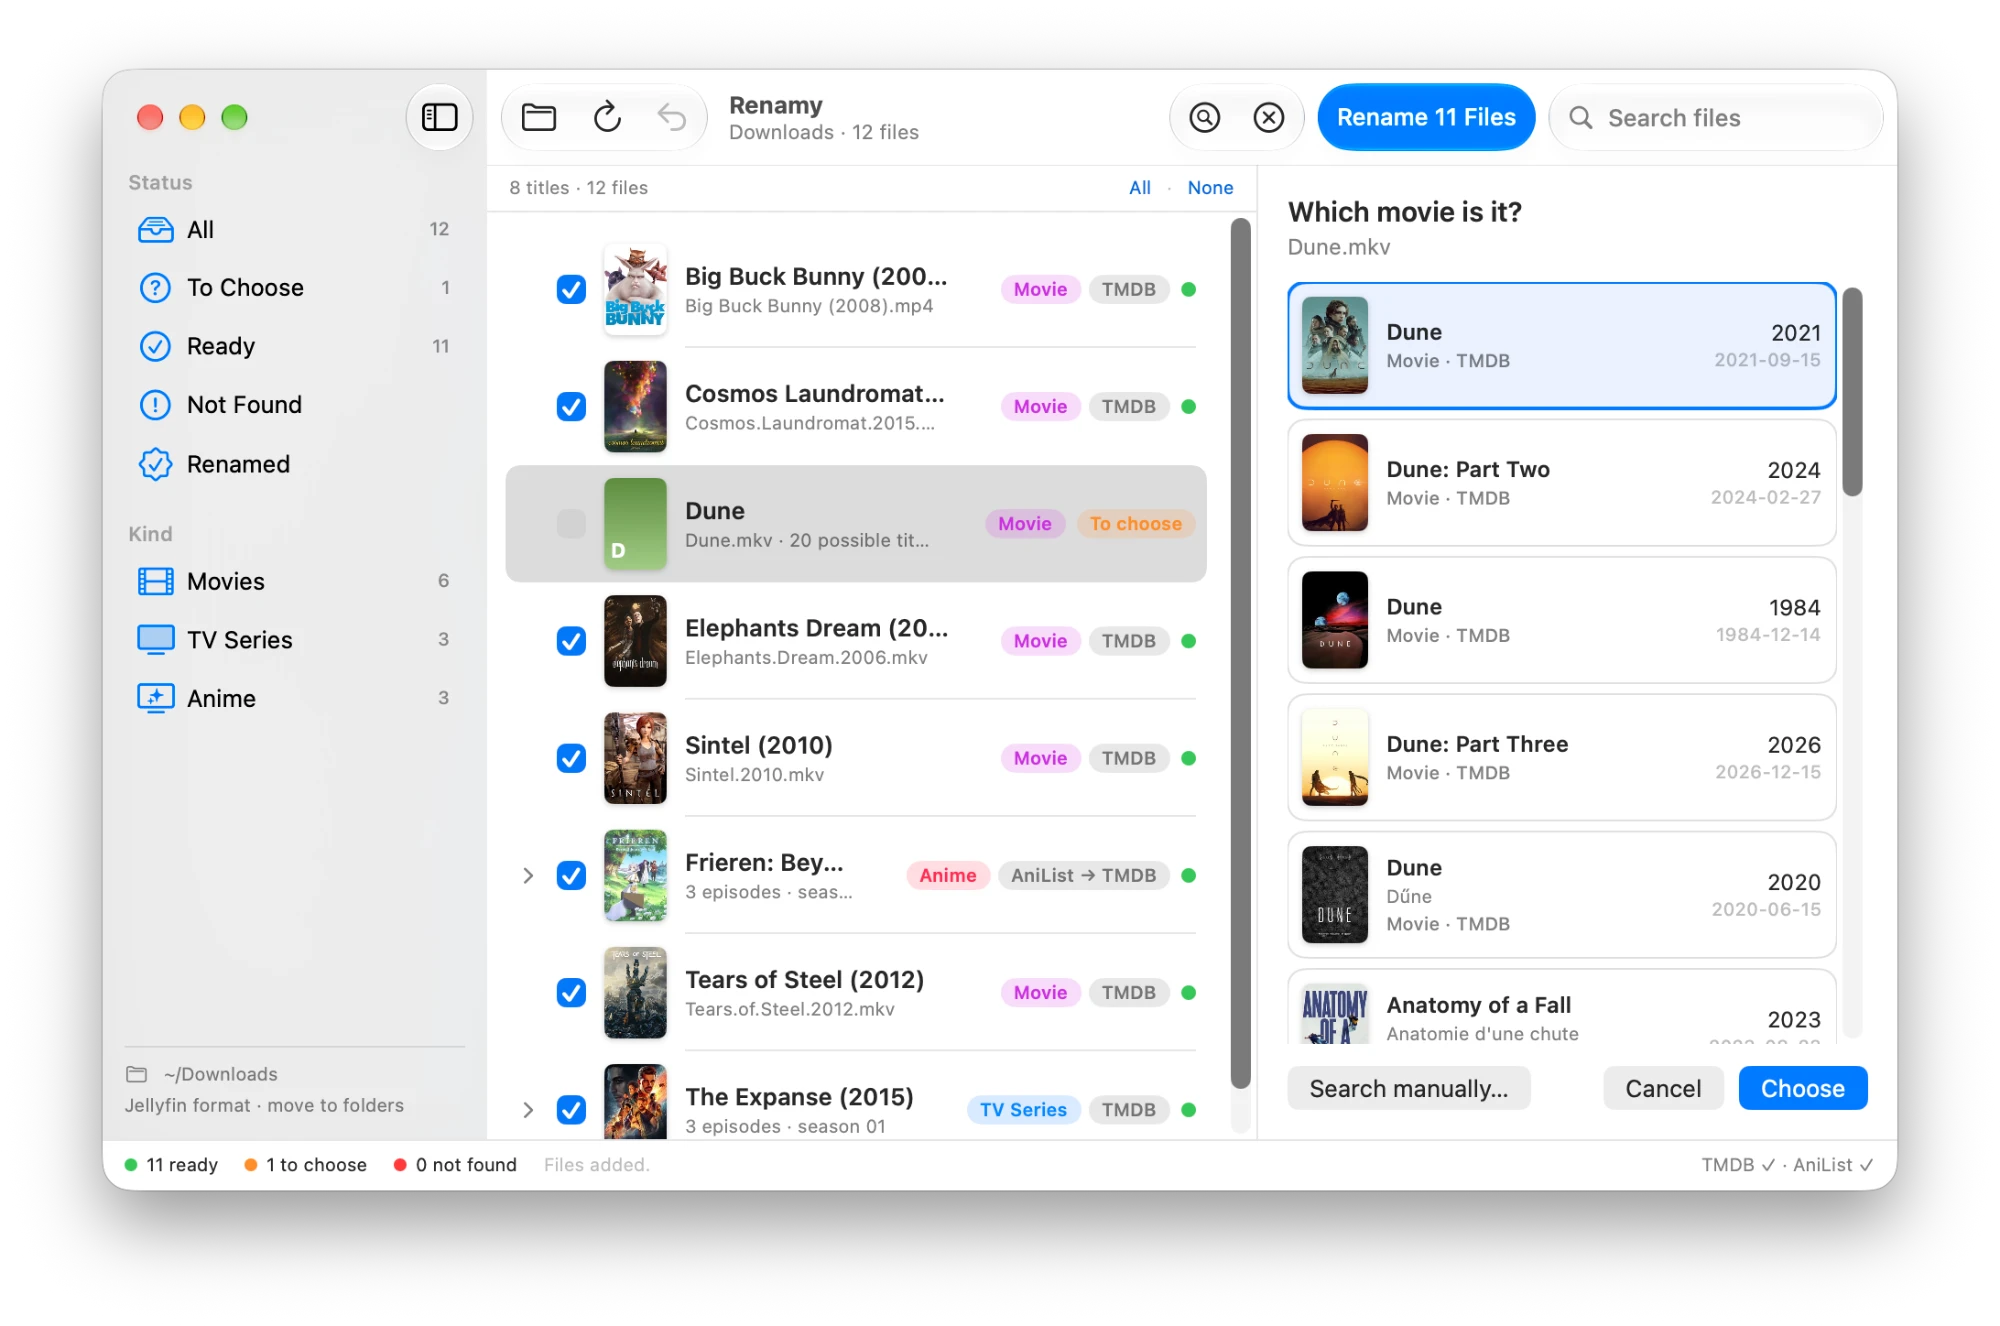
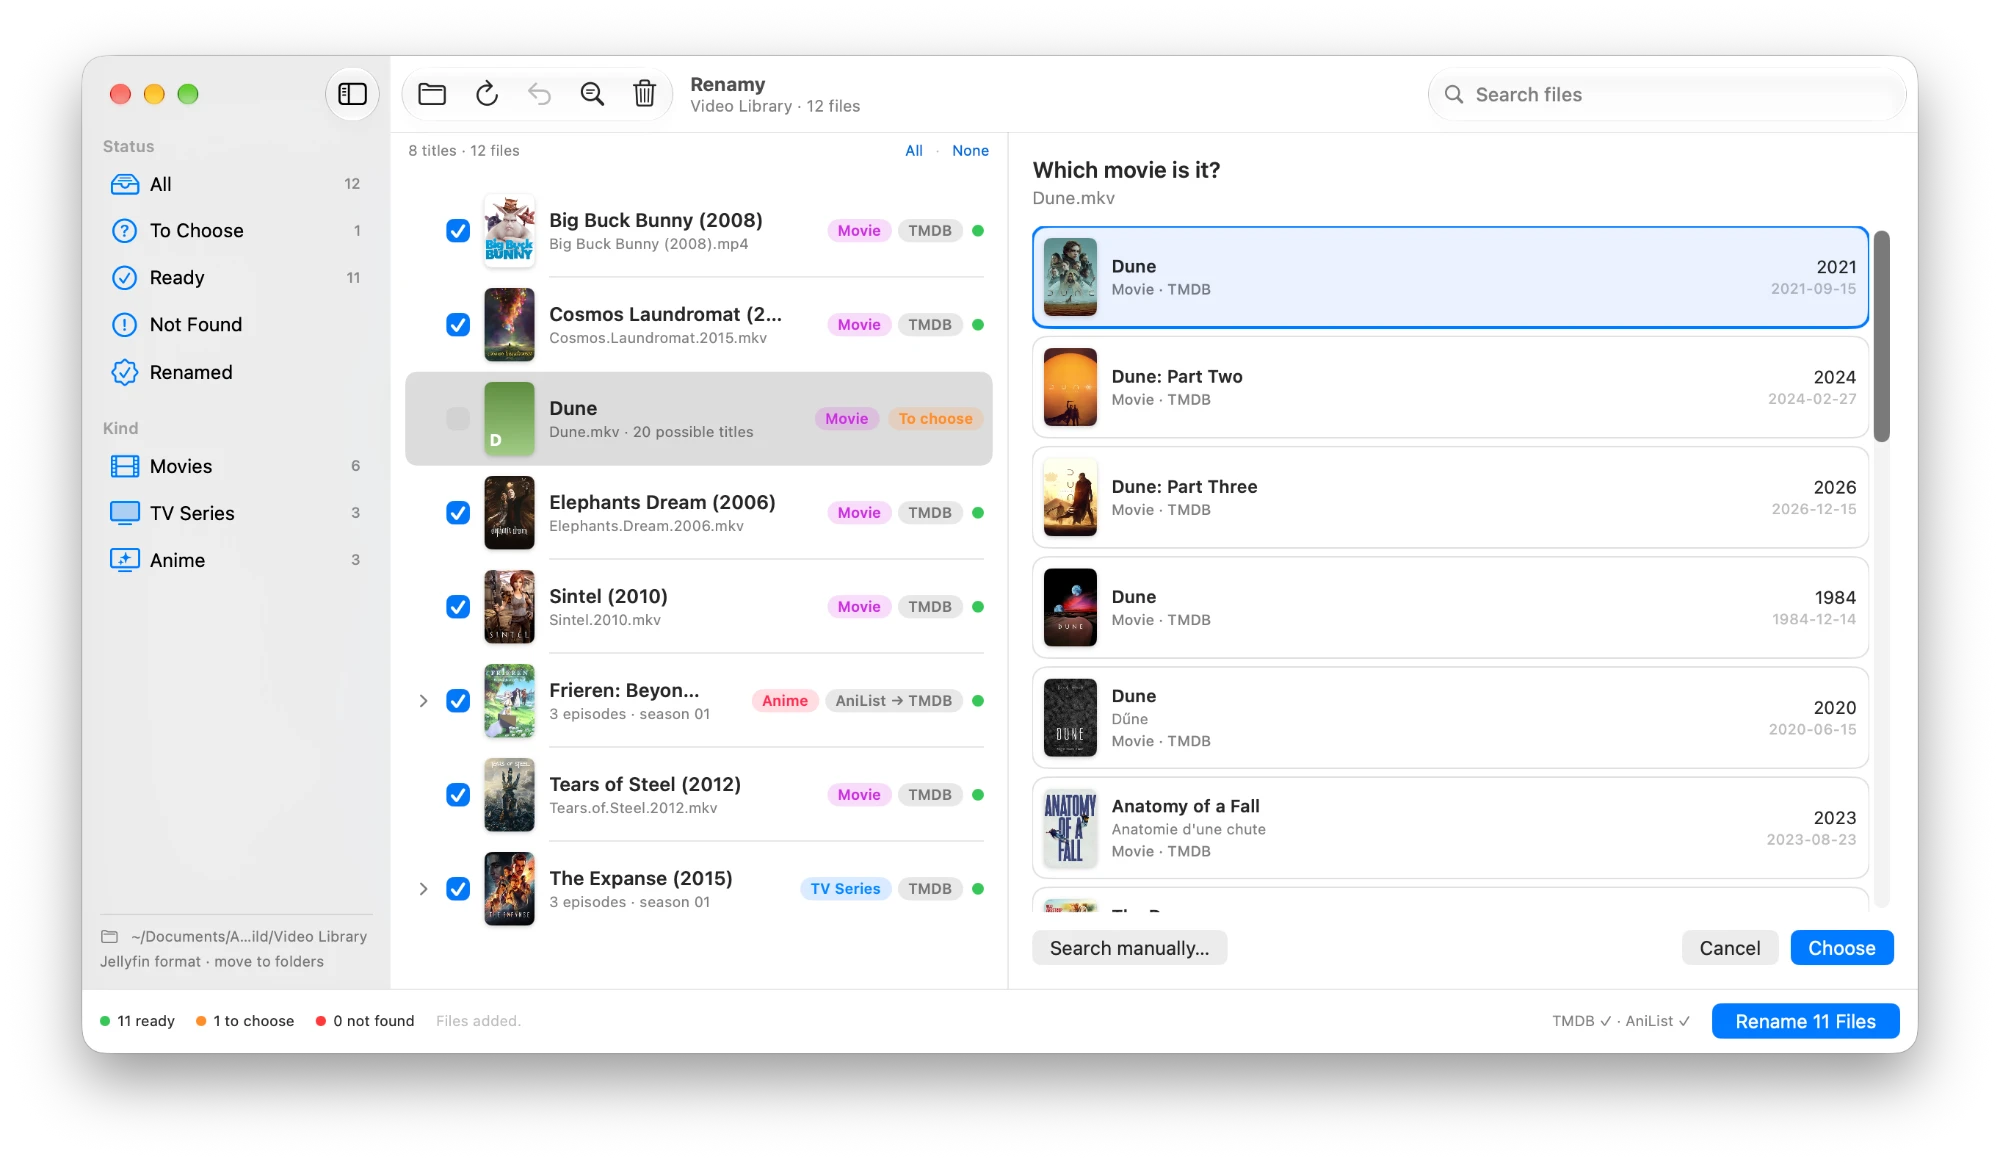
README: screenshots of Renamy 3.0.3
- New main window and choice screenshots with the updated toolbar
- Settings: sources and names tabs side by side

diff --git a/README.md b/README.md
@@ -32,7 +32,7 @@
 
 <img width="1000" alt="Choosing between matching titles" src="docs/choice.png" />
 
-<p align="center"><img width="560" alt="Renamy Settings" src="docs/settings.png" /></p>
+<p align="center"><img width="420" alt="Renamy Settings: sources" src="docs/settings.png" /> <img width="420" alt="Renamy Settings: names" src="docs/settings-names.png" /></p>
 
 ## 🚀 Requirements
 - macOS 14.6 (Sonoma) or later.
